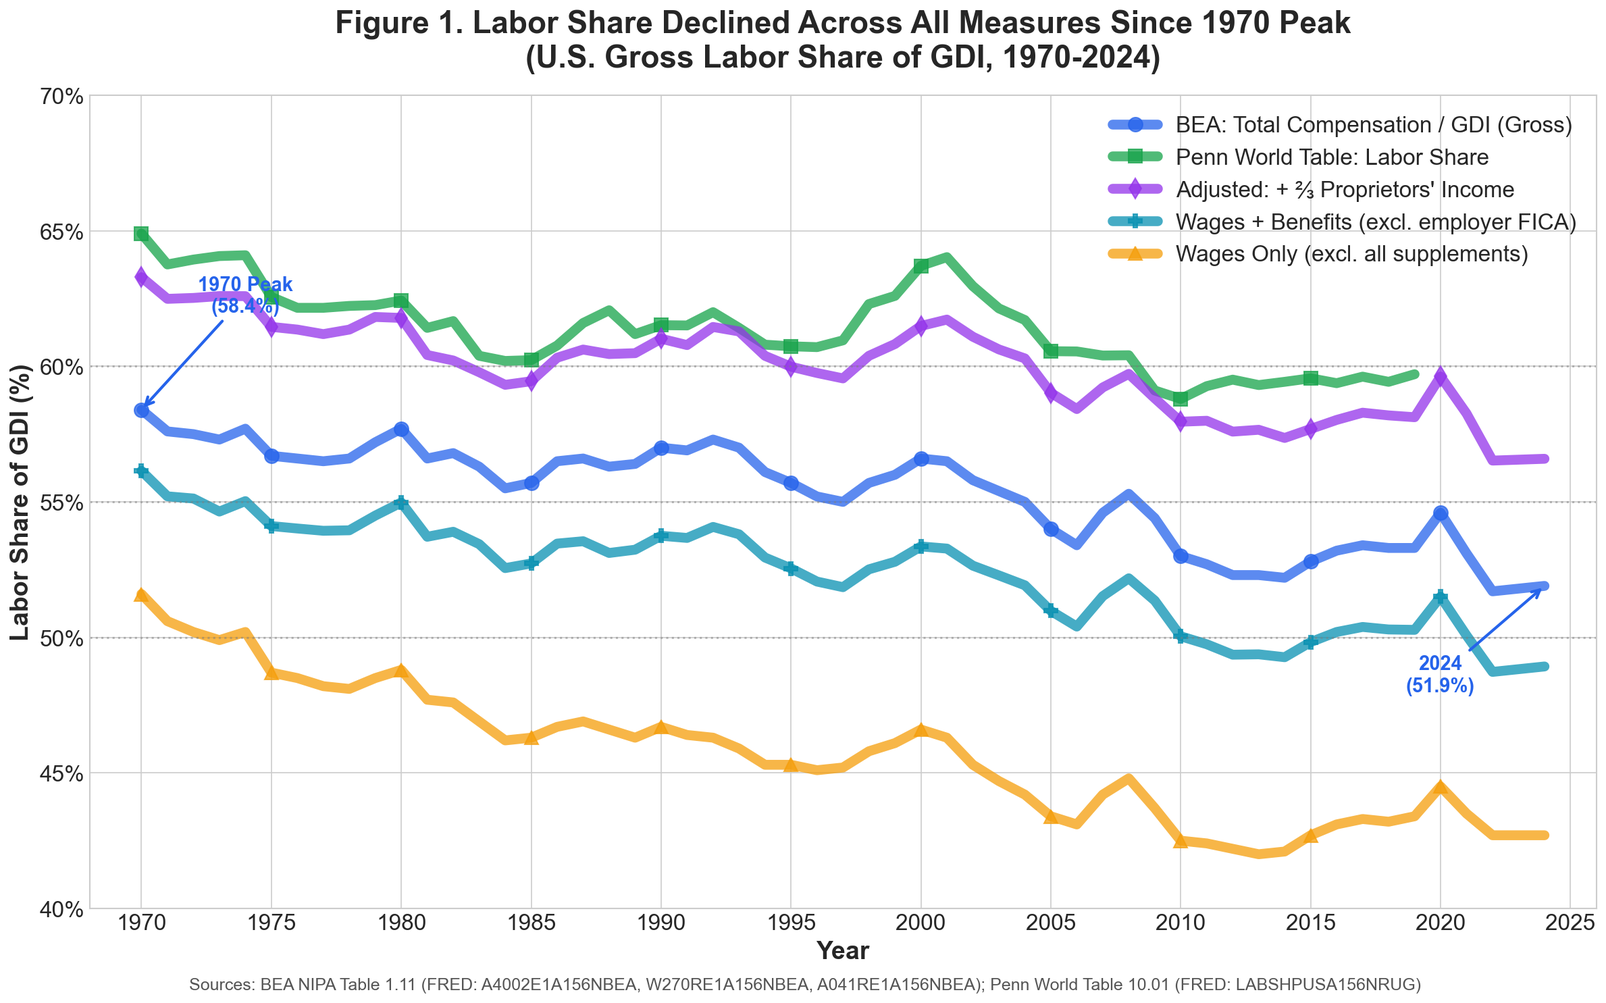
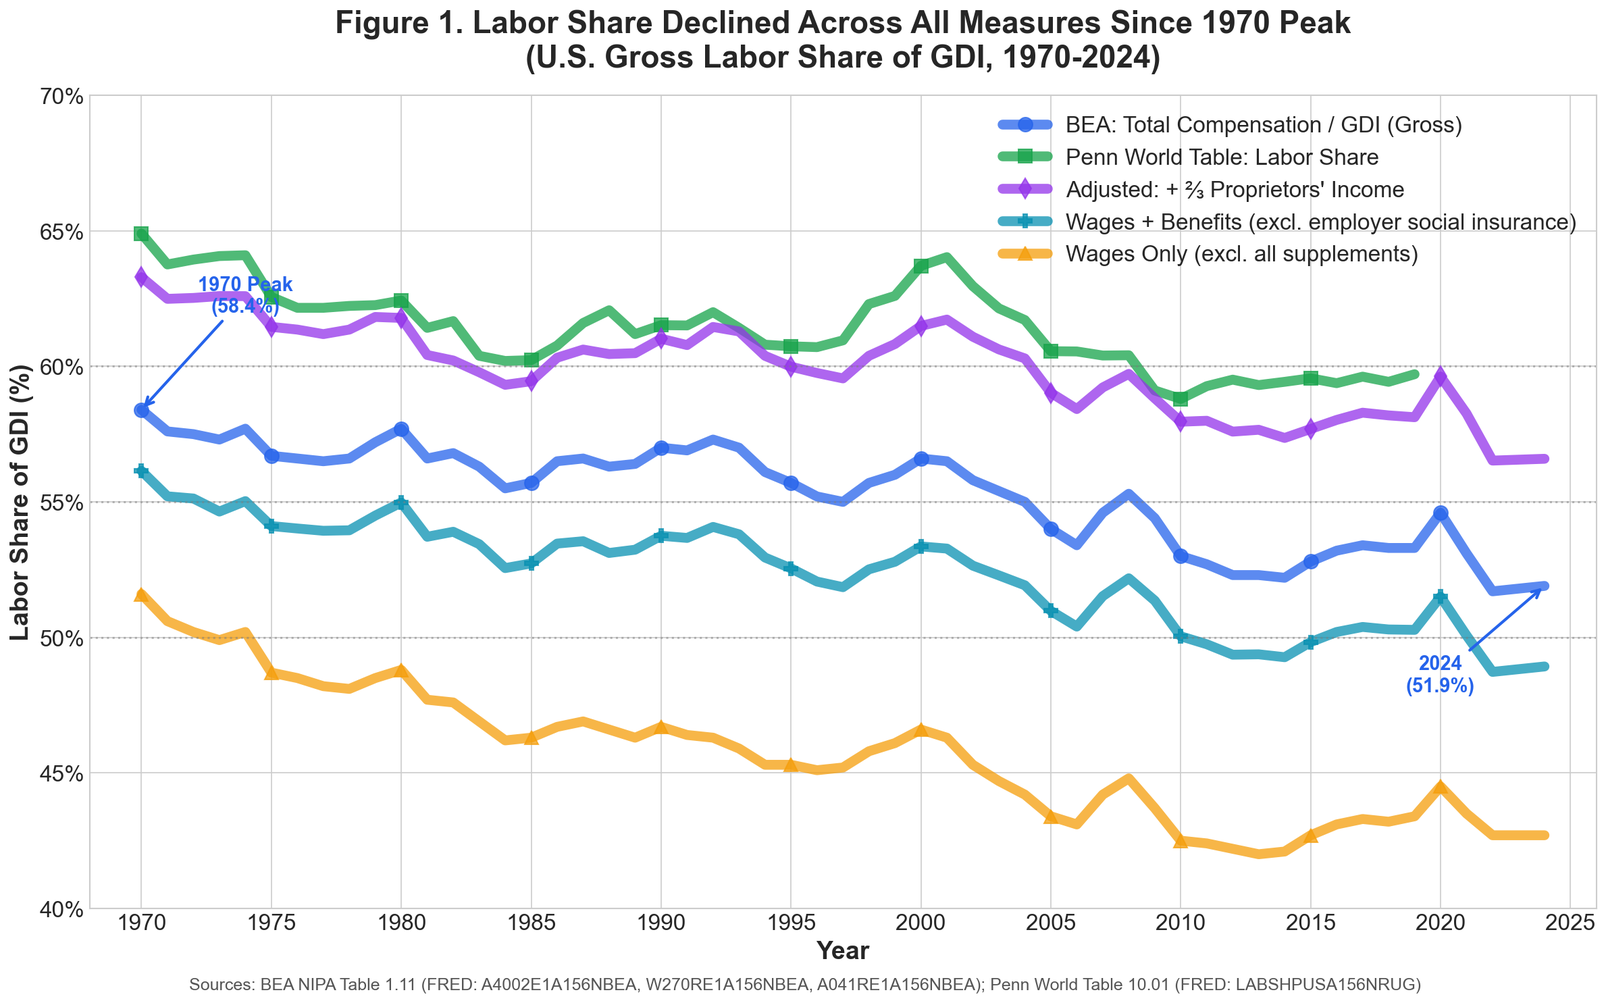
Methodological rigor improvements (v2.3)
Key changes:
1. Made Gollin (2002) ⅔ proprietors' income assumption EXPLICIT upfront
   in Executive Summary - no longer buried in methodology section

2. Renamed "employer FICA" → "employer social insurance" throughout
   - BEA definition is broader than FICA alone (includes UI, workers' comp)
   - Added link to BEA glossary for transparency

3. Fixed supplements values to match BEA series A038RE1A156NBEA
   - Was: 6.8%/9.2% (computed from rounded comp - wages)
   - Now: 6.7%/9.1% (actual BEA series values)

4. Clarified Penn World Table series ends in 2019, not 2024
   - Updated figure description and interpretation text

5. Refined net interest explanation
   - Was: "identity offset to make identity balance" (too vague)
   - Now: "offset for net interest receipts in profits/proprietors'"
   - Cited BEA NIPA Handbook Ch. 13

6. Restructured GDI to Table 1.11 level
   - Shows NOS as aggregate, with profits/proprietors'/rental/net interest
     as subcomponents (not independent items)

7. Softened "under any sensible measurement" rhetoric
   - Was: rhetorically strong, invites "define sensible" critique
   - Now: "Across the standard BEA whole-economy measures in Table 1.11..."

Changed region(s): [[0.6224, 0.0929, 0.9647, 0.2788]]

diff --git a/generate_chart.py b/generate_chart.py
@@ -87,7 +87,10 @@ adj_labor_share = [comp + (alpha * prop) for comp, prop in zip(bea_comp, bea_pro
 # Supplements (benefits + employer social insurance) = Compensation - Wages
 supplements = [comp - wage for comp, wage in zip(bea_comp, bea_wages)]
 
-# === EMPLOYER FICA SHARE CALCULATION ===
+# === EMPLOYER SOCIAL INSURANCE SHARE CALCULATION ===
+# Note: BEA "employer contributions for government social insurance" is broader than FICA alone -
+# it includes FICA (Social Security + Medicare) plus smaller programs (unemployment insurance, etc.)
+# We use FICA rates as a proxy since FICA is the dominant component (~90%+ of the total)
 # Historical employer FICA rates (OASDI + Medicare combined)
 # Source: SSA.gov, Tax Policy Center, milefoot.com
 # These are statutory rates; actual share is lower due to wage base cap
@@ -224,7 +227,7 @@ def create_main_chart():
             markevery=5, alpha=LINE_ALPHA)
 
     ax.plot(years, comp_ex_fica, '-', linewidth=LINE_WIDTH, color=COLORS['ex_fica'],
-            label='Wages + Benefits (excl. employer FICA)', marker='P', markersize=MARKER_SIZE,
+            label='Wages + Benefits (excl. employer social insurance)', marker='P', markersize=MARKER_SIZE,
             markevery=5, alpha=LINE_ALPHA)
 
     ax.plot(years, bea_wages, '-', linewidth=LINE_WIDTH, color=COLORS['wages'],
@@ -544,12 +547,12 @@ def print_summary_stats():
     print(f"  2024: {supplements[idx_2024]:.1f}%")
     print(f"  Change: {supplements[idx_2024] - supplements[idx_1970]:+.1f} pp")
 
-    print(f"\nEmployer FICA Share (estimated):")
+    print(f"\nEmployer Social Insurance Share (estimated from FICA rates):")
     print(f"  1970: {employer_fica_share[idx_1970]:.1f}%")
     print(f"  2024: {employer_fica_share[idx_2024]:.1f}%")
     print(f"  Change: {employer_fica_share[idx_2024] - employer_fica_share[idx_1970]:+.1f} pp")
 
-    print(f"\nCompensation ex-FICA (Wages + Benefits only):")
+    print(f"\nCompensation ex-Social Insurance (Wages + Benefits only):")
     print(f"  1970: {comp_ex_fica[idx_1970]:.1f}%")
     print(f"  2024: {comp_ex_fica[idx_2024]:.1f}%")
     print(f"  Change: {comp_ex_fica[idx_2024] - comp_ex_fica[idx_1970]:+.1f} pp")

diff --git a/README.md b/README.md
@@ -2,7 +2,7 @@
 
 ## Executive Summary
 
-**Has the U.S. labor share declined? Yes.** Under any sensible measurement approach, the current labor share is below its post-war high-water mark. The decline from the 1970 peak is real and consistent across all measures.
+**Has the U.S. labor share declined? Yes.** Across the standard BEA whole-economy measures in Table 1.11, the labor share is below its late-1960s/1970 peak. The decline is consistent across all measures examined here, though magnitude varies with methodological choices (sector scope, proprietors' income treatment, depreciation inclusion).
 
 **What's debatable is the magnitude, not the direction.** Different measurement choices yield declines ranging from −4.8 pp to −8.9 pp — a substantial range, but all negative.
 
@@ -11,18 +11,26 @@
 | Measure | 1970 | 2024 | Change |
 |---------|------|------|--------|
 | **Gross Labor Share** (Compensation/GDI) | 58.4% | 51.9% | **−6.5 pp** |
-| **Wages + Benefits** (excl. employer FICA†) | 56.1% | 48.9% | **−7.2 pp** |
+| **Wages + Benefits** (excl. employer social insurance†) | 56.1% | 48.9% | **−7.2 pp** |
 | **Wages Only** (excl. all supplements) | 51.6% | 42.7% | **−8.9 pp** |
 | **Depreciation-Adjusted Labor Share** (Compensation/NDI) | 67.0% | 62.2% | **−4.8 pp** |
 | Depreciation Share | 12.8% | 16.5% | +3.7 pp |
-| Employer FICA† Share | 2.3% | 3.0% | +0.7 pp |
+| Employer Social Insurance† Share | 2.3% | 3.0% | +0.7 pp |
 
-*† FICA = Federal Insurance Contributions Act (Social Security + Medicare payroll taxes). Employers pay 7.65% of wages; employees pay another 7.65%.*
+*† Employer contributions for government social insurance ([BEA definition](https://www.bea.gov/help/glossary/contribution-government-social-insurance)). This is dominated by FICA (Social Security + Medicare, 7.65% of wages), but also includes smaller programs like unemployment insurance and workers' compensation.*
 
 **Key takeaways:**
 - The **standard gross measure** shows a −6.5 pp decline
 - Adjusting for rising depreciation attenuates (but does not eliminate) the decline: −4.8 pp
 - Looking at **wages only** (excluding benefits and payroll taxes) shows the steepest decline: −8.9 pp
+
+> ### ⚠ Key Methodological Assumption: Proprietors' Income
+>
+> **Proprietors' income** (~7% of GDI) is "mixed income" — it contains both labor and capital returns for self-employed individuals. This document follows **[Gollin (2002)](https://www.journals.uchicago.edu/doi/abs/10.1086/340770)** in allocating **⅔ of proprietors' income to labor** and **⅓ to capital** when computing the "Adjusted" labor share measure (purple line in Figure 1).
+>
+> This assumption matters: if you instead treated *all* proprietors' income as capital, the labor share would be ~5 pp lower; if you treated it *all* as labor, it would be ~7 pp higher.
+>
+> The **standard gross labor share** (blue line) does *not* include any proprietors' income in the numerator — it is simply Compensation of Employees / GDI. The Gollin adjustment only applies to the "Adjusted" measure.
 
 **Historical context:** The 1970 peak (58.4%) was historically high — in 1929, gross labor share was only 49.5%, below today's level. But this does not change the central finding: *labor share has declined from its peak, regardless of which measure is used.*
 
@@ -57,17 +65,22 @@ This is a **pre-personal-income-tax** measure of total labor cost to employers. 
 
 ### What Goes Into the Denominator?
 
-**Gross Domestic Income (GDI)** is the sum of all incomes earned in production:
+**Gross Domestic Income (GDI)** is the sum of all incomes earned in production. At the **Table 1.11 level**, the identity is:
 
 ```
 GDI = Compensation of Employees
-    + Corporate Profits (with IVA and CCAdj)
-    + Proprietors' Income
-    + Rental Income of Persons
-    + Net Interest and Miscellaneous Payments
+    + Net Operating Surplus (NOS)
     + Taxes on Production and Imports less Subsidies
     + Consumption of Fixed Capital (Depreciation)
 ```
+
+Where **Net Operating Surplus** is itself composed of:
+- Corporate Profits (with IVA and CCAdj)
+- Proprietors' Income
+- Rental Income of Persons
+- Net Interest and Miscellaneous Payments
+
+This structure matters: the four NOS subcomponents are not independent — in particular, "Net Interest" is an offset item (see below), not a standalone income measure.
 
 We use GDI rather than GDP because the labor share numerator (compensation) comes from the income side of the accounts. Using GDP would mix income-side numerators with expenditure-side denominators, introducing measurement noise from the statistical discrepancy.
 
@@ -94,7 +107,7 @@ We also examine alternative numerator definitions to isolate different component
 | Numerator | What It Measures | Interpretation |
 |-----------|------------------|----------------|
 | **Total Compensation** | Wages + all supplements | Total cost of employing labor |
-| **Wages + Benefits (excl. FICA)** | Wages + employer pension/insurance | Excludes employer payroll taxes |
+| **Wages + Benefits (excl. employer social insurance)** | Wages + employer pension/insurance | Excludes employer payroll taxes |
 | **Wages Only** | Cash wages before taxes | Excludes all non-cash compensation |
 
 The choice of numerator matters: wages alone have fallen more steeply than total compensation because rising employer benefits and payroll taxes have partially offset wage stagnation.
@@ -111,12 +124,12 @@ The choice of numerator matters: wages alone have fallen more steeply than total
 
 **Line-by-line explanation:**
 - **Blue (BEA Total Compensation / GDI)**: The standard gross labor share. The numerator is total compensation of employees (wages + supplements). This is the benchmark measure used in most academic literature.
-- **Teal (Wages + Benefits, excl. employer FICA)**: The numerator excludes employer payroll taxes (~3% of GDI) while keeping private benefits. This isolates the "pre-payroll-tax" labor share.
-- **Green (Penn World Table)**: Uses a different methodology that imputes a labor share for self-employed workers, rather than treating proprietors' income as mixed.
+- **Teal (Wages + Benefits, excl. employer social insurance)**: The numerator excludes employer payroll taxes (~3% of GDI) while keeping private benefits. This isolates the "pre-payroll-tax" labor share.
+- **Green (Penn World Table, 1970–2019 only)**: Uses a different methodology that imputes a labor share for self-employed workers, rather than treating proprietors' income as mixed. *Note: PWT data ends in 2019; the line does not extend to 2024.*
 - **Purple (Adjusted: + ⅔ Proprietors' Income)**: Adds two-thirds of proprietors' income to the numerator, following [Gollin (2002)](https://www.journals.uchicago.edu/doi/abs/10.1086/340770), to account for the labor component of self-employment income.
 - **Amber (Wages Only)**: The numerator is just wages and salaries — no benefits, no employer payroll taxes. This shows the steepest decline.
 
-**Interpretation:** All five measures show a decline from 1970 to 2024. The magnitude varies: the decline is −6.5 pp for the standard measure, but −8.9 pp for wages only. This means that rising employer contributions to benefits and payroll taxes have partially masked wage stagnation. If you care about workers' cash wages, the decline is steeper than the headline labor share suggests.
+**Interpretation:** All measures show a decline from 1970 to the latest available year (BEA series through 2024; Penn World Table through 2019). The magnitude varies: the decline is −6.5 pp for the standard measure, but −8.9 pp for wages only. This means that rising employer contributions to benefits and payroll taxes have partially masked wage stagnation. If you care about workers' cash wages, the decline is steeper than the headline labor share suggests.
 
 ### Figure 2. Depreciation-Adjusted Labor Share Also Declined, But Less Steeply
 
@@ -198,7 +211,7 @@ All factor shares in this note are measured **before income taxes**:
 
 | Component | Tax Treatment | Reference |
 |-----------|---------------|-----------|
-| **Compensation** | Pre-personal income tax, pre-employee FICA; *includes* employer FICA | Standard total labor cost |
+| **Compensation** | Pre-personal income tax, pre-employee FICA; *includes* employer social insurance | Standard total labor cost |
 | **Corporate Profits** (with IVA+CCAdj) | Pre-corporate income tax | [BEA definition](https://www.bea.gov/help/glossary/corporate-profits-iva-and-ccadj) |
 | **Proprietors' Income** | Pre-personal income tax | Mixed labor/capital |
 | **Taxes on Production** | Sales taxes, property taxes, excises | *Not* income taxes |
@@ -217,7 +230,7 @@ The BEA "Compensation of Employees" series (A4002E1A156NBEA) includes:
 | Component | 2024 Share | Description |
 |-----------|------------|-------------|
 | **Wages and Salaries** | 42.7% | Cash payments to workers (pre-income tax) |
-| **Supplements** | 9.2% | Benefits + employer social insurance contributions |
+| **Supplements** | 9.1% | Benefits + employer social insurance contributions |
 | └ Employer pension/insurance | ~6.2% | Health insurance, 401(k) contributions |
 | └ Employer social insurance (FICA) | ~3.0% | Employer portion of Social Security + Medicare |
 
@@ -229,7 +242,7 @@ The BEA "Compensation of Employees" series (A4002E1A156NBEA) includes:
 | **Employee FICA** (~7.65%) | Pre-tax | Workers pay this out of wages received |
 | **Employer FICA** (~7.65%) | Included in supplements | Standard practice (total labor cost) |
 
-**Why include employer FICA?** This is standard in the literature ([Karabarbounis & Neiman 2014](https://www.nber.org/papers/w19136), [Autor et al. 2020](https://www.nber.org/papers/w23396)) because:
+**Why include employer social insurance?** This is standard in the literature ([Karabarbounis & Neiman 2014](https://www.nber.org/papers/w19136), [Autor et al. 2020](https://www.nber.org/papers/w23396)) because:
 1. It represents the **total cost of employing labor**
 2. It funds benefits workers receive (Social Security, Medicare)
 3. Excluding it would understate the true labor share
@@ -239,10 +252,10 @@ The BEA "Compensation of Employees" series (A4002E1A156NBEA) includes:
 | If you want... | Use this measure | 1970→2024 |
 |----------------|------------------|-----------|
 | Total labor cost to firms | Total Compensation | −6.5 pp |
-| Labor share ex-payroll taxes | Wages + Benefits (excl. FICA) | −7.2 pp |
+| Labor share ex-payroll taxes | Wages + Benefits (excl. employer social insurance) | −7.2 pp |
 | Cash wages only | Wages Only | −8.9 pp |
 
-The **"Wages + Benefits (excl. FICA)"** line (teal in Figure 1) excludes employer payroll taxes while keeping private benefits. This shows that excluding payroll taxes, the labor share decline is *steeper* (−7.2 pp), not smaller—because employer FICA rose from 2.3% to 3.0% of GDI.
+The **"Wages + Benefits (excl. employer social insurance)"** line (teal in Figure 1) excludes employer payroll taxes while keeping private benefits. This shows that excluding payroll taxes, the labor share decline is *steeper* (−7.2 pp), not smaller—because employer social insurance rose from 2.3% to 3.0% of GDI.
 
 ### Gross vs Depreciation-Adjusted Labor Share
 
@@ -269,21 +282,21 @@ Corporate profits in the NIPAs (with IVA and CCAdj) are measured as receipts les
 
 #### The "Net Interest" Trap: It's NOT "Bank's Income"
 
-**Caution:** The "Net Interest and Miscellaneous Payments" line in GDI is **not** a direct measure of financial sector income. It is an *identity offset* constructed to make the production-income identity balance. ([BEA NIPA Handbook Ch. 14](https://www.bea.gov/resources/methodologies/nipa-handbook/pdf/chapter-14.pdf))
+**Caution:** The "Net Interest and Miscellaneous Payments" line in GDI is **not** a direct measure of financial sector income. It is an *offset item* that removes net interest receipts already embedded in corporate profits and proprietors' income. ([BEA NIPA Handbook Ch. 13](https://www.bea.gov/resources/methodologies/nipa-handbook/pdf/chapter-13.pdf))
 
 Specifically:
-- Corporate profits *include* net receipts of interest (interest received minus interest paid)
-- The "Net Interest" GDI component then *offsets* this by showing economy-wide net interest payments
-- This is an accounting convention, not a clean attribution of income to lenders
+- Corporate profits *include* net interest receipts (interest received minus interest paid) as part of business income
+- The "Net Interest" GDI component then *offsets* these receipts — because interest income is not treated as arising from current production in the NIPA framework
+- This ensures interest payments flow from borrowers to lenders without double-counting
 
-**Do not interpret "Net Interest" as "the bank's income."** It's a balancing item in the national accounts identity.
+**Do not interpret "Net Interest" as "the bank's income."** It reflects the accounting treatment of interest flows in the production-income identity, not a clean attribution of income to financial institutions.
 
 #### How GDI Components Are Defined
 
 | Component | What It Measures | Treatment of Interest/Rent |
 |-----------|------------------|----------------------------|
 | **Corporate Profits** (with IVA+CCAdj) | Profits from current production, *pre-corporate income tax* | Net of interest paid, rent paid, wages, depreciation |
-| **Net Interest** | Economy-wide net interest payments (an identity offset) | **Not** = financial sector income |
+| **Net Interest** | Offset for net interest receipts in profits/proprietors' income | **Not** = financial sector income |
 | **Rental Income** | Income of persons from property ownership | Direct measure of landlord income |
 | **Compensation** | Wages + supplements paid to employees | — |
 | **Proprietors' Income** | Mixed labor/capital income of self-employed | — |
@@ -292,9 +305,11 @@ Specifically:
 
 #### Why Components Sum to 100%
 
-The BEA separates depreciation as its own GDI component rather than embedding it in profits. All components are mutually exclusive by construction:
+At the Table 1.11 level, the four main aggregates sum to 100%:
 
-Compensation + Profits + Proprietors' + Rental + Net Interest + Depreciation + Taxes on Production = GDI (100%)
+**Compensation + Net Operating Surplus + Taxes on Production + Depreciation = GDI (100%)**
+
+The NOS subcomponents (profits, proprietors', rental, net interest) sum to NOS, not directly to 100%. The BEA separates depreciation as its own GDI component rather than embedding it in profits.
 
 #### Capital Share Calculation (If Needed)
 
@@ -347,14 +362,14 @@ The three-way decomposition reveals where the "missing" labor share went:
 | Measure (Numerator / GDI) | 1970 | 2024 | Change |
 |---------------------------|------|------|--------|
 | Total Compensation (wages + all supplements) | 58.4% | 51.9% | −6.5 pp |
-| Wages + Benefits (excl. employer FICA) | 56.1% | 48.9% | −7.2 pp |
+| Wages + Benefits (excl. employer social insurance) | 56.1% | 48.9% | −7.2 pp |
 | Wages Only (cash wages, no supplements) | 51.6% | 42.7% | −8.9 pp |
 
 **Key insight:** The rise in supplements (+2.4 pp) consists of:
 - **Private benefits** (pension, health insurance): ~+1.7 pp
 - **Employer FICA** (Social Security, Medicare): ~+0.7 pp
 
-If you view employer FICA as a "tax on labor" rather than compensation *to* labor, the true labor share decline is steeper (−7.2 pp).
+If you view employer social insurance as a "tax on labor" rather than compensation *to* labor, the true labor share decline is steeper (−7.2 pp).
 
 **Caveat:** Rising private benefits doesn't necessarily mean workers are better off — much of it reflects healthcare cost inflation, not improved coverage.
 
@@ -376,8 +391,8 @@ The 1929 gross labor share was 49.5% — below the current 2024 level (51.9%). T
 |-----------|------|------|---|
 | **Compensation of Employees** | **58.4%** | **51.9%** | **−6.5 pp** |
 | └ Wages & Salaries | 51.6% | 42.7% | −8.9 pp |
-| └ Wages + Benefits (excl. employer FICA)† | 56.1% | 48.9% | −7.2 pp |
-| └ Supplements (total) | 6.8% | 9.2% | +2.4 pp |
+| └ Wages + Benefits (excl. employer social insurance)† | 56.1% | 48.9% | −7.2 pp |
+| └ Supplements (total) | 6.7% | 9.1% | +2.4 pp |
 |   └ Employer pension/insurance | ~4.5% | ~6.2% | ~+1.7 pp |
 |   └ Employer FICA (Social Security, Medicare) | ~2.3% | ~3.0% | ~+0.7 pp |
 | Proprietors' Income | 7.3% | 7.0% | −0.3 pp |
@@ -390,7 +405,7 @@ The 1929 gross labor share was 49.5% — below the current 2024 level (51.9%). T
 *Sources: BEA NIPA Table 1.11 via FRED. Key series: [Compensation (A4002E1A156NBEA)](https://fred.stlouisfed.org/series/A4002E1A156NBEA), [Wages (W270RE1A156NBEA)](https://fred.stlouisfed.org/series/W270RE1A156NBEA), [Depreciation (A262RE1A156NBEA)](https://fred.stlouisfed.org/series/A262RE1A156NBEA), [Corporate Profits (A445RE1A156NBEA)](https://fred.stlouisfed.org/series/A445RE1A156NBEA). 1970 subcomponent values are approximate. Note: Component shares may not sum to exactly 100% due to rounding in source data (BEA publishes shares rounded to one decimal place).*
 
 **Table notes:**
-- † **Wages + Benefits (excl. employer FICA)**: Compensation minus employer FICA. This "pre-payroll-tax" measure shows a steeper decline (−7.2 pp) than total compensation (−6.5 pp).
+- † **Wages + Benefits (excl. employer social insurance)**: Compensation minus employer social insurance. This "pre-payroll-tax" measure shows a steeper decline (−7.2 pp) than total compensation (−6.5 pp).
 - ‡ **Corporate Profits**: Reported *net of* interest paid, rent paid, and depreciation, but *before* corporate income taxes. Corporate income taxes are paid out of this figure. ([BEA definition](https://www.bea.gov/help/glossary/corporate-profits-iva-and-ccadj))
 - § **Taxes on Production**: Includes sales taxes, property taxes, customs duties, etc. These are distinct from corporate income taxes (which come out of profits) and personal income taxes (which workers pay out of compensation).
 
@@ -414,7 +429,7 @@ The 1929 gross labor share was 49.5% — below the current 2024 level (51.9%). T
 | **Are corporations squeezing workers?** | Gross (corporate sector) | Shows actual firm-level revenue split |
 | **What income is sustainable?** | Depreciation-adjusted (Comp/NDI) | Depreciation isn't available for consumption |
 | **How do wages compare to total labor costs?** | Wages vs Total Compensation | Reveals role of benefits/payroll taxes |
-| **What's the "pre-payroll-tax" labor share?** | Wages + Benefits (excl. FICA) | Excludes employer FICA from numerator |
+| **What's the "pre-payroll-tax" labor share?** | Wages + Benefits (excl. employer social insurance) | Excludes employer social insurance from numerator |
 | **International comparisons** | Penn World Table | Standardized methodology |
 | **Short-run dynamics** | BLS Nonfarm Business | Quarterly frequency |
 
@@ -505,8 +520,9 @@ January 2026
 
 ## Changelog
 
+- **v2.3** (January 2026): Methodological rigor improvements: (1) Made Gollin (2002) ⅔ proprietors' income assumption explicit in Executive Summary; (2) Renamed "employer FICA" → "employer social insurance" ([BEA definition](https://www.bea.gov/help/glossary/contribution-government-social-insurance) — broader than FICA alone); (3) Fixed supplements values to match BEA series A038RE1A156NBEA (6.7%/9.1%, not computed from rounded values); (4) Clarified PWT series ends in 2019; (5) Refined net interest explanation (offset for receipts in profits/proprietors'); (6) Restructured GDI to Table 1.11 level (NOS as aggregate); (7) Softened rhetorical claims
 - **v2.2** (January 2026): Major methodological fixes: (1) Renamed "Net Labor Share" → "Depreciation-adjusted labor share" to avoid confusion with "after-tax"; (2) Corrected net interest explanation (it's an identity offset, NOT "bank's income"); (3) Added explicit tax boundary declaration; (4) Added BEA NIPA Handbook citations
-- **v2.1** (January 2026): Added "Wages + Benefits (excl. FICA)" measure; clarified tax treatment (corporate profits are pre-corporate income tax); added explicit note that GDI components sum to 100%; expanded supplements decomposition in data tables
+- **v2.1** (January 2026): Added "Wages + Benefits (excl. employer social insurance)" measure; clarified tax treatment (corporate profits are pre-corporate income tax); added explicit note that GDI components sum to 100%; expanded supplements decomposition in data tables
 - **v2.0** (January 2026): Refocused on 1970-2024 period; added separate gross/net charts; improved axis readability (5-year intervals); added wages-only measure; expanded methodology notes on pre-tax treatment and capital share calculation
 - **v1.1** (January 2026): Added section on IT, software, and superstar firms
 - **v1.0** (January 2026): Initial research note
